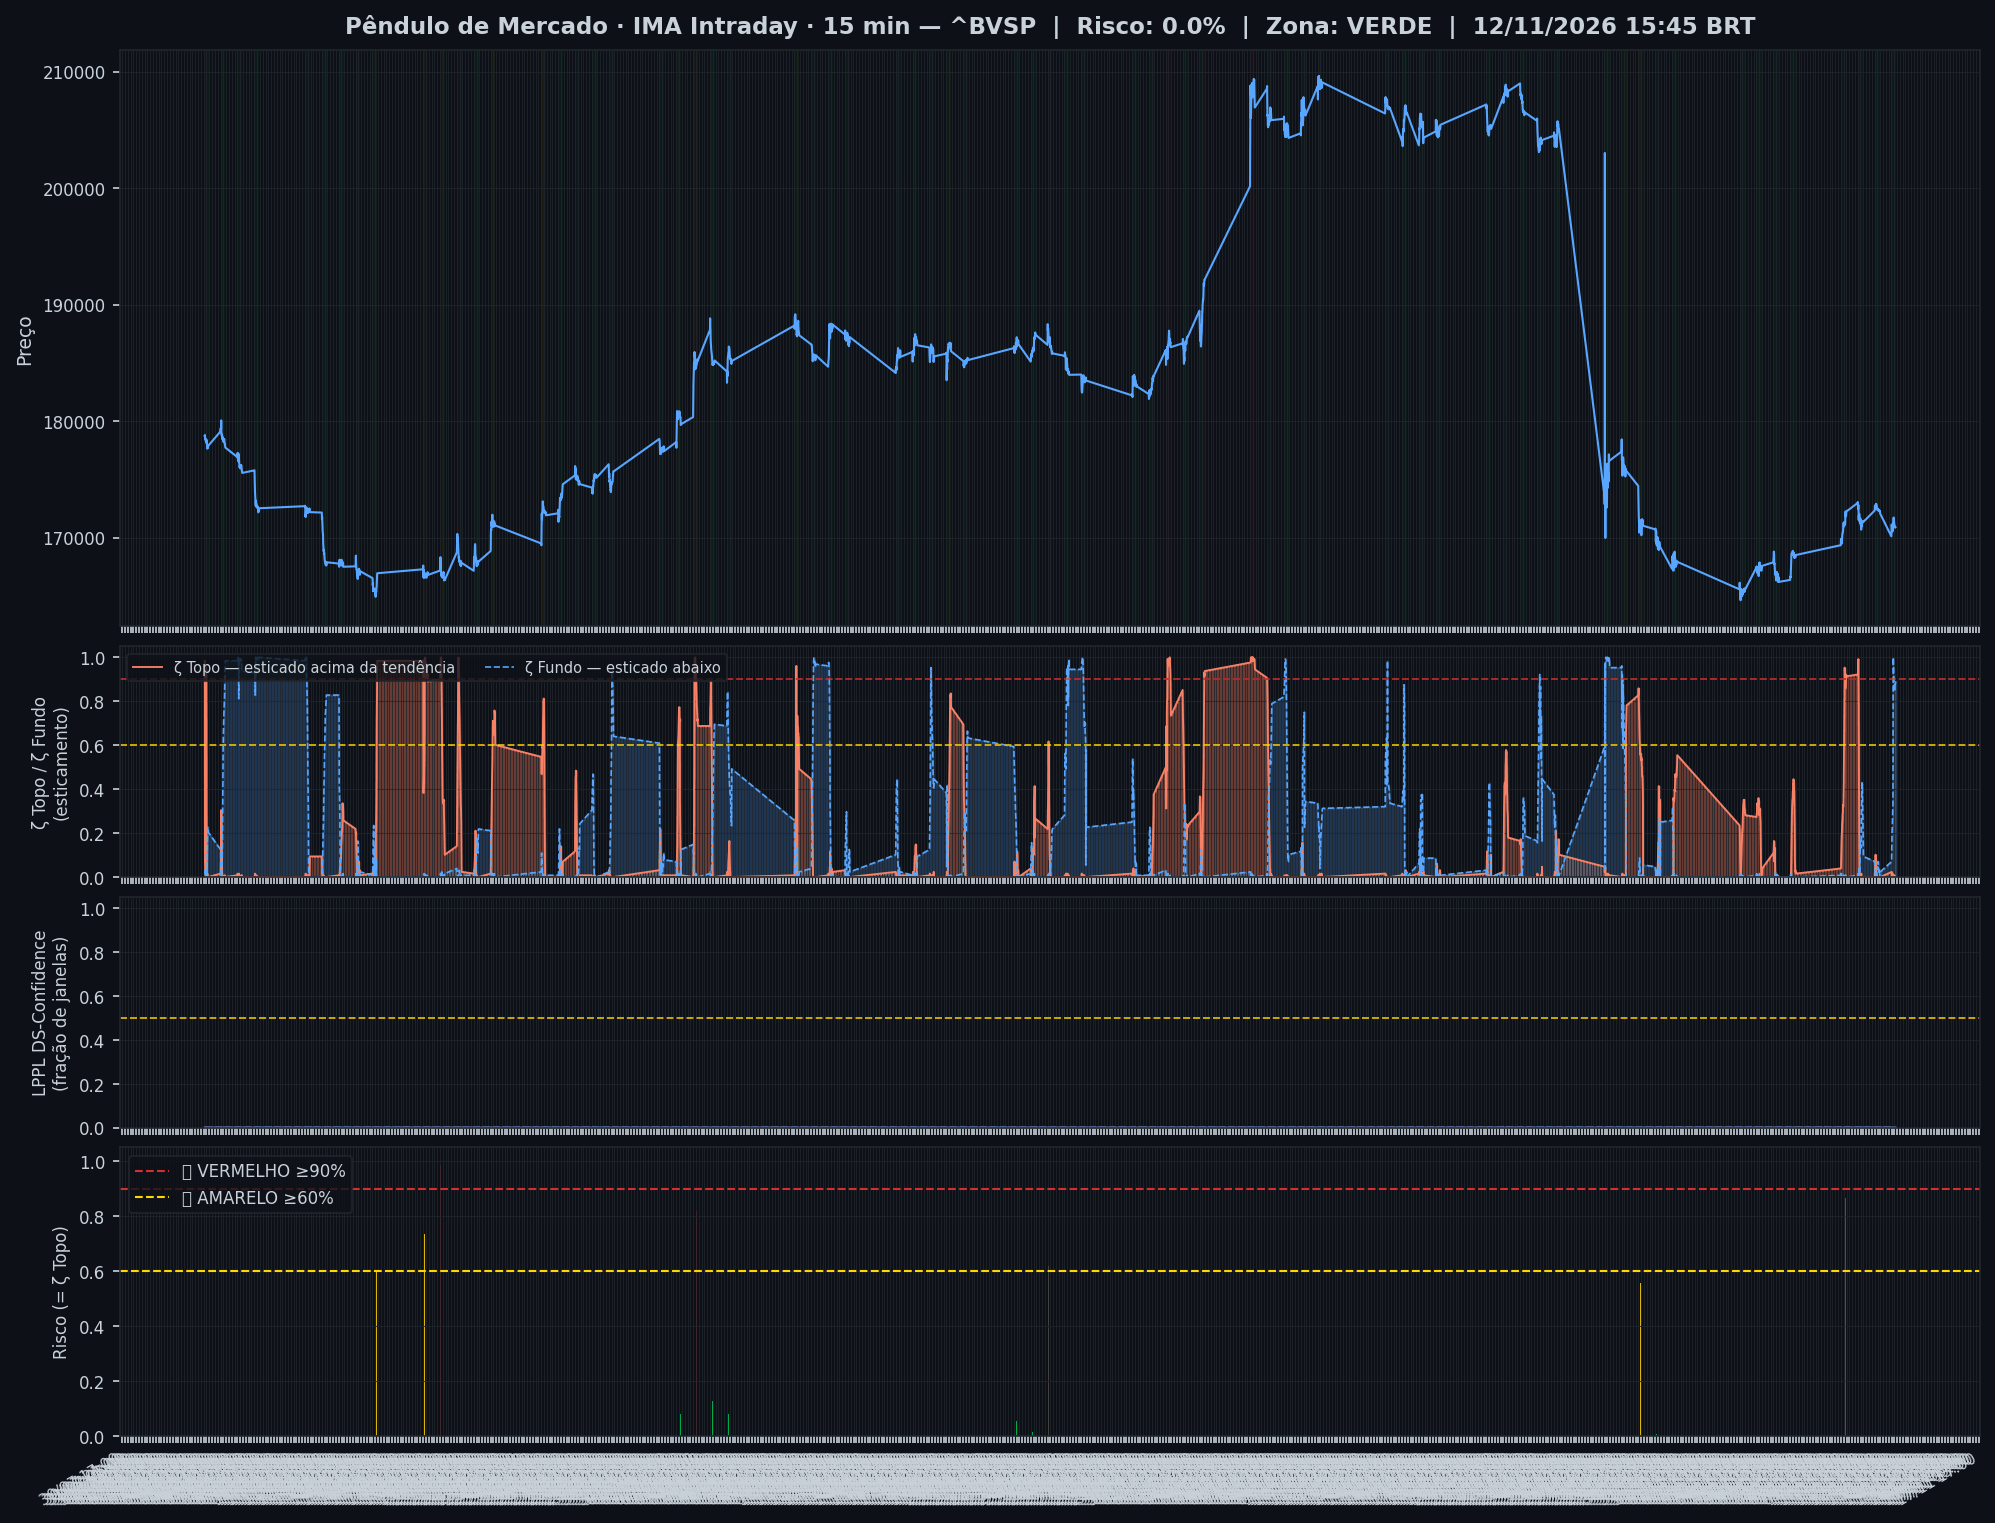
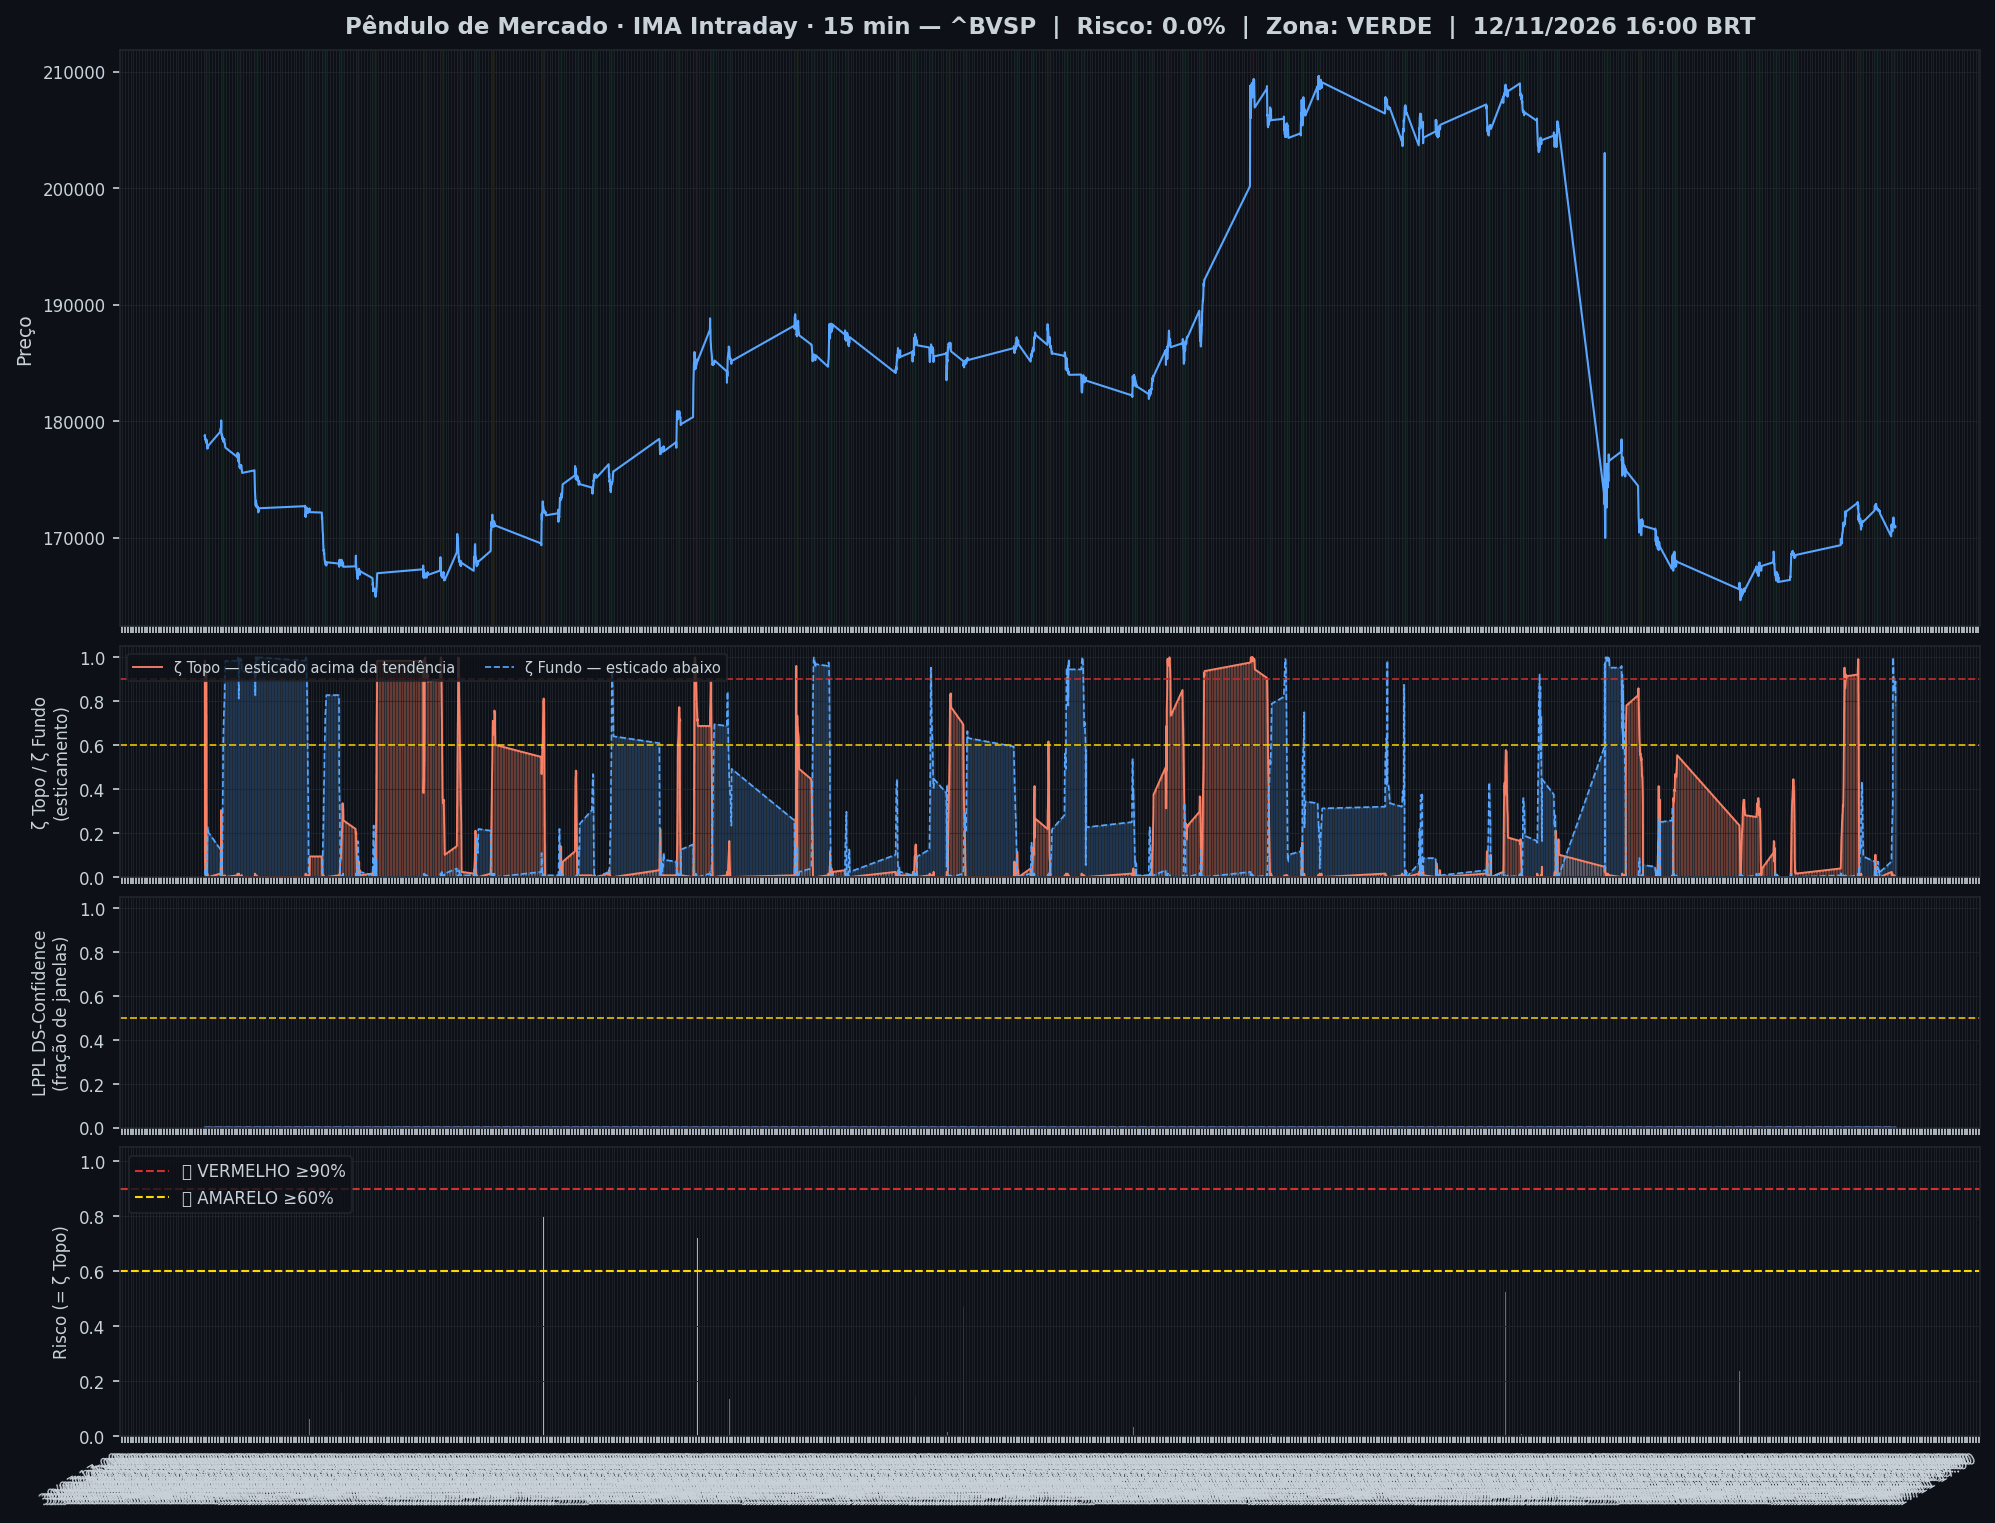
🤖 Auto: Sinal 12/11/2026 16:15

Changed region(s): [[0.808, 0.4938, 0.9013, 0.5863], [0.7459, 0.5246, 0.7769, 0.5555]]

diff --git a/content/intraday/2026-11-12.md b/content/intraday/2026-11-12.md
@@ -1,11 +1,11 @@
 ---
-title: "🟢 Intraday 12/11/2026 15:45 BRT — VERDE"
+title: "🟢 Intraday 12/11/2026 16:00 BRT — VERDE"
 date: 2026-11-12
 tags: [intraday]
 ---
 
-> [!info] Onde o mercado está agora (12/11 15:45, candles de 15 min): **🔵 Esticado para baixo**
-> `Pânico ◀─●───────────────────▶ Euforia`
+> [!info] Onde o mercado está agora (12/11 16:00, candles de 15 min): **🔵 Esticado para baixo**
+> `Pânico ◀──●──────────────────▶ Euforia`
 >
 > O Ibovespa caiu mais rápido que o normal e está abaixo da sua faixa habitual.
 > No gráfico diário: 🌱 Fundo se desfazendo.
@@ -20,26 +20,26 @@ tags: [intraday]
 > | 📍 **Sinais** | hoje: nenhum sinal | [abrir](sinais-topo-fundo/) |
 > | 🧪 **Placar ao vivo** | 1 operação(ões), 0 com lucro, soma -0,8% | [abrir](operacoes/) |
 
-> [!success] IMA Intraday · 15 min (12/11 15:45): 🟢 **VERDE** — Risco 0% · ＝ +0 p.p. vs leitura anterior
+> [!success] IMA Intraday · 15 min (12/11 16:00): 🟢 **VERDE** — Risco 0% · ＝ +0 p.p. vs leitura anterior
 > `░░░░░░░░░░░░░░░░░░░░`
 > Preço na faixa normal em torno da tendência.
 
 
-> [!warning] ⚠ Nível alto agora — IMA Intraday · 15 min (12/11 15:45)
-> - 🔵 **ζ Fundo 89%** — preço esticado abaixo da tendência
+> [!warning] ⚠ Nível alto agora — IMA Intraday · 15 min (12/11 16:00)
+> - 🔵 **ζ Fundo 78%** — preço esticado abaixo da tendência
 
 > [!note] 🧭 IMA Diário · viés (11/11): 🌱 **Fundo se desfazendo**
 > 📚 só contexto: o pânico passou; sem vantagem estatística confirmada para comprar só por isso
 >
 > *Leitura educacional baseada em 26 anos de dados, não recomendação. [Como usar](../metodologia/crise#3-como-usar-na-prática).*
 
-| Indicador — IMA Intraday · 15 min (12/11 15:45) | Valor |
+| Indicador — IMA Intraday · 15 min (12/11 16:00) | Valor |
 |---|---|
 | 🔴 ζ Topo — preço esticado acima da tendência | **0%** |
-| 🔵 ζ Fundo — preço esticado abaixo da tendência | 🔵 **89%** |
+| 🔵 ζ Fundo — preço esticado abaixo da tendência | 🔵 **78%** |
 | 🫧 LPPL bolha — alta super-exponencial (risco de crash) | 0% |
 | 🫧 LPPL antibolha — queda super-exponencial (risco de repique) | 0% |
-| 📊 Ibovespa | 170.877 pts |
+| 📊 Ibovespa | 170.937 pts |
 
 ![Gráfico do sinal](../graficos/sinal_intraday.png)
 
@@ -47,6 +47,7 @@ tags: [intraday]
 
 | Data | Zona | Evento | Risco | ζ Topo | ζ Fundo | LPPL |
 |---|---|---|---|---|---|---|
+| 2026-11-12 16:00 | 🟢 VERDE |  | **0%** | 0% | 🔵 **78%** | 0% |
 | 2026-11-12 15:45 | 🟢 VERDE |  | **0%** | 0% | 🔵 **89%** | 0% |
 | 2026-11-12 15:30 | 🟢 VERDE |  | **0%** | 0% | 🔵 **88%** | 0% |
 | 2026-11-12 15:15 | 🟢 VERDE |  | **0%** | 0% | 🔵 **88%** | 0% |
@@ -76,52 +77,51 @@ tags: [intraday]
 | 2026-11-11 17:30 | 🟢 VERDE |  | **0%** | 0% | 2% | 0% |
 | 2026-11-11 17:15 | 🟢 VERDE |  | **0%** | 0% | 1% | 0% |
 | 2026-11-11 17:00 | 🟢 VERDE |  | **0%** | 0% | 2% | 0% |
-| 2026-11-11 16:45 | 🟢 VERDE |  | **0%** | 0% | 2% | 0% |
 
 <small>Destaques: 🟡 ≥ 60% · 🔴 ≥ 90% (Risco e ζ Topo) · 🔵 ≥ 60% · 🔪 ≥ 90% (ζ Fundo) · 🫧 ≥ 30% · 🫧🔴 ≥ 50% (LPPL)</small>
 
 ## Monitor Multi-Ativo
 
-**19% dos ativos em tensão** (3🔴 3🟡) · **9 com ζ Fundo alto** — quanto mais ativos disparam juntos, mais confiável o sinal.
+**22% dos ativos em tensão** (3🔴 3🟡) · **10 com ζ Fundo alto** — quanto mais ativos disparam juntos, mais confiável o sinal.
 
 > [!danger] Em destaque no multi-ativo
-> 🔪 **ITAUSA** ζ Fundo 99% · 🔴 **VIBRA** ζ Topo 98% · 🔴 **ULTRAPAR** ζ Topo 98% · 🔪 **ENEVA** ζ Fundo 98% · 🔴 **GERDAU** ζ Topo 98% · 🔪 **AXIA ENERGIA** ζ Fundo 97% · 🔪 **ITAUUNIBANCO** ζ Fundo 91% · 🔵 **BTGP BANCO** ζ Fundo 90% · 🔵 **BRASIL** ζ Fundo 90% · 🔵 **TELEF BRASIL** ζ Fundo 89% · 🔵 **SABESP** ζ Fundo 70% · 🟡 **USD/BRL** ζ Topo 68% · 🟡 **PETROBRAS** ζ Topo 67% · 🔵 **EQUATORIAL** ζ Fundo 67%
+> 🔪 **ITAUSA** ζ Fundo 100% · 🔴 **ULTRAPAR** ζ Topo 99% · 🔴 **VIBRA** ζ Topo 98% · 🔴 **GERDAU** ζ Topo 98% · 🔪 **ENEVA** ζ Fundo 97% · 🔪 **AXIA ENERGIA** ζ Fundo 96% · 🔪 **ITAUUNIBANCO** ζ Fundo 91% · 🔪 **SABESP** ζ Fundo 91% · 🔪 **TELEF BRASIL** ζ Fundo 91% · 🔵 **BRASIL** ζ Fundo 88% · 🔵 **BTGP BANCO** ζ Fundo 87% · 🔵 **EQUATORIAL** ζ Fundo 73% · 🟡 **PETROBRAS** ζ Topo 68% · 🟡 **USD/BRL** ζ Topo 67% · 🔵 **COPEL** ζ Fundo 61% · 🟡 **PETROBRAS** ζ Topo 60%
 
 | Zona | Ativo | Setor | ζ Topo | ζ Fundo |
 |---|---|---|---|---|
-| 🟢 | **ITAUSA** | Financeiro | 0.0% | 🔪 **99.2%** |
-| 🔴 | **VIBRA** | Energia | 🔴 **98.4%** | 0.8% |
-| 🔴 | **ULTRAPAR** | Outros | 🔴 **98.4%** | 0.8% |
-| 🟢 | **ENEVA** | Energia | 0.0% | 🔪 **97.7%** |
+| 🟢 | **ITAUSA** | Financeiro | 0.0% | 🔪 **100.0%** |
+| 🔴 | **ULTRAPAR** | Outros | 🔴 **99.2%** | 0.8% |
+| 🔴 | **VIBRA** | Energia | 🔴 **97.7%** | 0.8% |
 | 🔴 | **GERDAU** | Siderurgia | 🔴 **97.7%** | 0.0% |
-| 🟢 | **AXIA ENERGIA** | Energia | 0.0% | 🔪 **96.9%** |
-| 🟢 | **ITAUUNIBANCO** | Financeiro | 0.0% | 🔪 **91.4%** |
-| 🟢 | **BTGP BANCO** | Financeiro | 0.0% | 🔵 **89.8%** |
-| 🟢 | **BRASIL** | Financeiro | 1.6% | 🔵 **89.8%** |
-| 🟢 | **TELEF BRASIL** | Outros | 0.0% | 🔵 **89.1%** |
-| 🟢 | **SABESP** | Saneamento | 0.0% | 🔵 **69.5%** |
-| 🟡 | **USD/BRL** | Câmbio | 🟡 **68.0%** | 0.0% |
-| 🟡 | **PETROBRAS** | Petróleo | 🟡 **67.2%** | 0.0% |
-| 🟢 | **EQUATORIAL** | Energia | 0.0% | 🔵 **67.2%** |
-| 🟡 | **PETROBRAS** | Petróleo | 59.4% | 0.0% |
-| 🟢 | **COPEL** | Energia | 0.0% | 57.0% |
-| 🟢 | **BRADESCO** | Financeiro | 0.0% | 55.5% |
+| 🟢 | **ENEVA** | Energia | 0.0% | 🔪 **96.9%** |
+| 🟢 | **AXIA ENERGIA** | Energia | 0.0% | 🔪 **96.1%** |
+| 🟢 | **ITAUUNIBANCO** | Financeiro | 0.0% | 🔪 **90.6%** |
+| 🟢 | **SABESP** | Saneamento | 0.0% | 🔪 **90.6%** |
+| 🟢 | **TELEF BRASIL** | Outros | 0.0% | 🔪 **90.6%** |
+| 🟢 | **BRASIL** | Financeiro | 0.8% | 🔵 **88.3%** |
+| 🟢 | **BTGP BANCO** | Financeiro | 0.0% | 🔵 **86.7%** |
+| 🟢 | **EQUATORIAL** | Energia | 0.0% | 🔵 **72.7%** |
+| 🟡 | **PETROBRAS** | Petróleo | 🟡 **68.0%** | 0.0% |
+| 🟡 | **USD/BRL** | Câmbio | 🟡 **67.2%** | 0.0% |
+| 🟢 | **COPEL** | Energia | 0.0% | 🔵 **60.9%** |
+| 🟡 | **PETROBRAS** | Petróleo | 🟡 **60.2%** | 0.0% |
 | 🟢 | **AMBEV S/A** | Consumo | 0.0% | 53.9% |
-| 🟢 | **LOCALIZA** | Aluguel | 0.0% | 37.5% |
-| 🟢 | **SUZANO S.A.** | Papel/Celulose | 0.8% | 20.3% |
-| 🟢 | **PRIO** | Petróleo | 14.8% | 0.8% |
+| 🟢 | **BRADESCO** | Financeiro | 0.0% | 50.8% |
+| 🟢 | **LOCALIZA** | Aluguel | 0.0% | 36.7% |
+| 🟢 | **PRIO** | Petróleo | 20.3% | 0.0% |
+| 🟢 | **SUZANO S.A.** | Papel/Celulose | 1.6% | 18.8% |
+| 🟢 | **B3** | Financeiro | 0.0% | 11.7% |
 | 🟢 | **REDE D OR** | Saúde | 0.0% | 10.9% |
-| 🟢 | **B3** | Financeiro | 0.0% | 8.6% |
-| 🟢 | **BBSEGURIDADE** | Financeiro | 5.5% | 0.0% |
-| 🟢 | **WEG** | Industrial | 0.0% | 4.7% |
-| 🟢 | **VALE** | Mineração | 0.0% | 0.8% |
+| 🟢 | **BBSEGURIDADE** | Financeiro | 6.2% | 0.0% |
+| 🟢 | **VALE** | Mineração | 0.0% | 2.3% |
 | 🟢 | **EMBRAER** | Outros | 0.0% | 0.8% |
+| 🟢 | **WEG** | Industrial | 0.8% | 0.8% |
 
 <small>Destaques: 🟡 ≥ 60% · 🔴 ≥ 90% (Risco e ζ Topo) · 🔵 ≥ 60% · 🔪 ≥ 90% (ζ Fundo) · 🫧 ≥ 30% · 🫧🔴 ≥ 50% (LPPL)</small>
 
 ![Monitor multi-ativo](../graficos/multi_intraday.png)
 
-*Página atualizada em 12/11/2026 16:01 BRT (leitura da barra de 2026-11-12 15:45 BRT).*
+*Página atualizada em 12/11/2026 16:15 BRT (leitura da barra de 2026-11-12 16:00 BRT).*
 
 > [!warning] O que este indicador não faz
 > Medido em 5 anos de Ibovespa, o ζ **não antecipa** topos nem fundos: a capacidade de separar o que sobe do que cai ficou em 0,49–0,52, e 0,50 é moeda jogada ao ar. Ele descreve o estado de agora; não é aviso do que vem. As zonas verde/amarelo/vermelho continuam na página como descrição desse estado — **não as use como sinal de entrada ou saída**.

diff --git a/content/index.md b/content/index.md
@@ -6,18 +6,18 @@ tags: [home]
 
 **As ondas do mercado, explicadas.** Leitura do Ibovespa com estatística de 26 anos, baseada no trabalho de pesquisadores e traders reconhecidos e adaptada por Jarbas Daniel da Costa.
 
-*Última atualização: 12/11/2026 16:01 BRT · Intraday 15min*
+*Última atualização: 12/11/2026 16:15 BRT · Intraday 15min*
 
-> [!info] Onde o mercado está agora (12/11 15:45, candles de 15 min): **🔵 Esticado para baixo**
-> `Pânico ◀─●───────────────────▶ Euforia`
+> [!info] Onde o mercado está agora (12/11 16:00, candles de 15 min): **🔵 Esticado para baixo**
+> `Pânico ◀──●──────────────────▶ Euforia`
 >
 > O Ibovespa caiu mais rápido que o normal e está abaixo da sua faixa habitual.
 > No gráfico diário: 🌱 Fundo se desfazendo.
 >
 > *Leitura educacional baseada em 26 anos de dados. Não é recomendação de investimento.*
 
-> [!warning] ⚠ Nível alto agora — IMA Intraday · 15 min (12/11 15:45)
-> - 🔵 **ζ Fundo 89%** — preço esticado abaixo da tendência
+> [!warning] ⚠ Nível alto agora — IMA Intraday · 15 min (12/11 16:00)
+> - 🔵 **ζ Fundo 78%** — preço esticado abaixo da tendência
 
 ## Agora
 
@@ -47,26 +47,26 @@ tags: [home]
 > *Leitura educacional baseada em 26 anos de dados, não recomendação. [Como usar](metodologia/crise#3-como-usar-na-prática).*
 
 > [!info]- 🌊 Detalhes do Sinal IMA (indicadores e últimos 7 pregões)
-> > [!success] IMA Intraday · 15 min (12/11 15:45): 🟢 **VERDE** — Risco 0% · ＝ +0 p.p. vs leitura anterior
+> > [!success] IMA Intraday · 15 min (12/11 16:00): 🟢 **VERDE** — Risco 0% · ＝ +0 p.p. vs leitura anterior
 > > `░░░░░░░░░░░░░░░░░░░░`
 > > Preço na faixa normal em torno da tendência.
 >
 >
-> | Indicador — IMA Intraday · 15 min (12/11 15:45) | Valor |
+> | Indicador — IMA Intraday · 15 min (12/11 16:00) | Valor |
 > |---|---|
 > | 🔴 ζ Topo — preço esticado acima da tendência | **0%** |
-> | 🔵 ζ Fundo — preço esticado abaixo da tendência | 🔵 **89%** |
+> | 🔵 ζ Fundo — preço esticado abaixo da tendência | 🔵 **78%** |
 > | 🫧 LPPL bolha — alta super-exponencial (risco de crash) | 0% |
 > | 🫧 LPPL antibolha — queda super-exponencial (risco de repique) | 0% |
-> | 📊 Ibovespa | 170.877 pts |
+> | 📊 Ibovespa | 170.937 pts |
 >
-> **Multi-ativo:** 19% em tensão (3🔴 3🟡 de 27 ativos)
+> **Multi-ativo:** 22% em tensão (3🔴 3🟡 de 27 ativos)
 >
 > **Últimos 7 pregões**
 >
 > | Data | Zona | Risco | ζ Topo | ζ Fundo | LPPL |
 > |---|---|---|---|---|---|
-> | [12/11/2026](intraday/2026-11-12) | 🟢 VERDE | **0%** | 0% | 🔵 **89%** | 0% |
+> | [12/11/2026](intraday/2026-11-12) | 🟢 VERDE | **0%** | 0% | 🔵 **78%** | 0% |
 > | [11/11/2026](intraday/2026-11-11) | 🟢 VERDE | **0%** | 0% | 2% | 0% |
 >
 > <small>Destaques: 🟡 ≥ 60% · 🔴 ≥ 90% (Risco e ζ Topo) · 🔵 ≥ 60% · 🔪 ≥ 90% (ζ Fundo) · 🫧 ≥ 30% · 🫧🔴 ≥ 50% (LPPL)</small>

diff --git a/content/operacoes/entradas.md b/content/operacoes/entradas.md
@@ -31,7 +31,7 @@ description: "Compra depois de um sinal de fundo: Nadaraya no diário, semáforo
 > | Diário · Semáforo N3 após ζ Fundo | 07/07/26 a 172.021 | 10/08/26 a 172.021 | **+0,0%** | stop no preço de entrada |
 > | H4 · Semáforo N2 | 12/06/26 14h a 171.134 | 15/06/26 14h a 171.134 | **+0,0%** | stop no preço de entrada |
 >
-> <small>Atualizado 11/11 19:00 · checado no pregão às 16:00. Nota: ✅ passou no teste fora da amostra (walk-forward 2008–2026) · 🧪 em teste (H4, com aviso no Telegram) ou em observação (ζ, sem aviso) · 🧪 na tabela = operação do teste ao vivo.</small>
+> <small>Atualizado 11/11 19:00 · checado no pregão às 16:15. Nota: ✅ passou no teste fora da amostra (walk-forward 2008–2026) · 🧪 em teste (H4, com aviso no Telegram) ou em observação (ζ, sem aviso) · 🧪 na tabela = operação do teste ao vivo.</small>
 >
 > *Regras: depois de um sinal de fundo, o Diário entra quando o Nadaraya vira para cima; o Semanal e o H4 entram quando um fundo do semáforo fica fixo. Stop e saída de cada regra na [metodologia](metodologia/regras-de-operacao#entradas-do-método). Nenhuma regra de venda passou no teste. Os números do histórico têm viés de escolha (overfitting); o placar ao vivo é o que vale. Leitura educacional do método, não recomendação.*
 

diff --git a/content/historico.md b/content/historico.md
@@ -5,7 +5,7 @@ tags: [historico]
 
 # 📜 Histórico de leituras (v5)
 
-**2.336 leituras** desde 2026-07-03. Na página ficam os últimos 3 dias leitura por leitura e o resumo de cada dia anterior; o registro inteiro está no arquivo para baixar.
+**2.337 leituras** desde 2026-07-03. Na página ficam os últimos 3 dias leitura por leitura e o resumo de cada dia anterior; o registro inteiro está no arquivo para baixar.
 
 [**Baixar o histórico completo**](historico-completo.csv) (102 KB · abre no Excel e no LibreOffice)
 
@@ -16,6 +16,7 @@ tags: [historico]
 
 | Data | Modo | Zona | Risco | IMA | LPPL |
 |---|---|---|---|---|---|
+| 2026-11-12 16:00 | intraday | 🟢 VERDE | 0% | 0% | 0% |
 | 2026-11-12 15:45 | intraday | 🟢 VERDE | 0% | 0% | 0% |
 | 2026-11-12 15:30 | intraday | 🟢 VERDE | 0% | 0% | 0% |
 | 2026-11-12 15:15 | intraday | 🟢 VERDE | 0% | 0% | 0% |

diff --git a/content/operacoes/ranking.md b/content/operacoes/ranking.md
@@ -5,7 +5,7 @@ tags: [operacoes]
 description: "As regras de compra do site ordenadas pelo resultado, com treino, teste e placar ao vivo"
 ---
 
-*Atualizado 12/11/2026 16:01 · histórico simulado com as regras congeladas em 23/10/2026 + placar ao vivo.*
+*Atualizado 12/11/2026 16:15 · histórico simulado com as regras congeladas em 23/10/2026 + placar ao vivo.*
 
 As regras de compra do site, **da que mais rendeu para a que menos rendeu**. O resultado é por operação, no índice à vista, sem custos e sem juros compostos (a soma é só a soma das operações). **Treino** = entradas de 2001 a 2013 e **teste** = 2014 em diante: uma regra só é confiável se ganhou nos dois. O único resultado sem nenhum ajuste ao histórico é o **placar ao vivo**.
 

diff --git a/content/linha-do-tempo/index.md b/content/linha-do-tempo/index.md
@@ -5,7 +5,7 @@ description: "Todo sinal, ordem, stop e aviso do Pêndulo de Mercado, do mais re
 tags: [eventos]
 ---
 
-*Atualizada 12/11/2026 16:01 BRT · a cada 15 min no pregão e às 19h.*
+*Atualizada 12/11/2026 16:15 BRT · a cada 15 min no pregão e às 19h.*
 
 Tudo o que o sistema fez ou detectou, **do mais recente para o mais antigo**: sinais de topo e fundo, ordens de compra e de venda armadas, compras, vendas, stops, avisos de 🚨 preço perto do nível e mudanças do Sinal IMA. Os **últimos 7 dias** ficam abertos; o resto, por **ano → mês → dia**.
 
